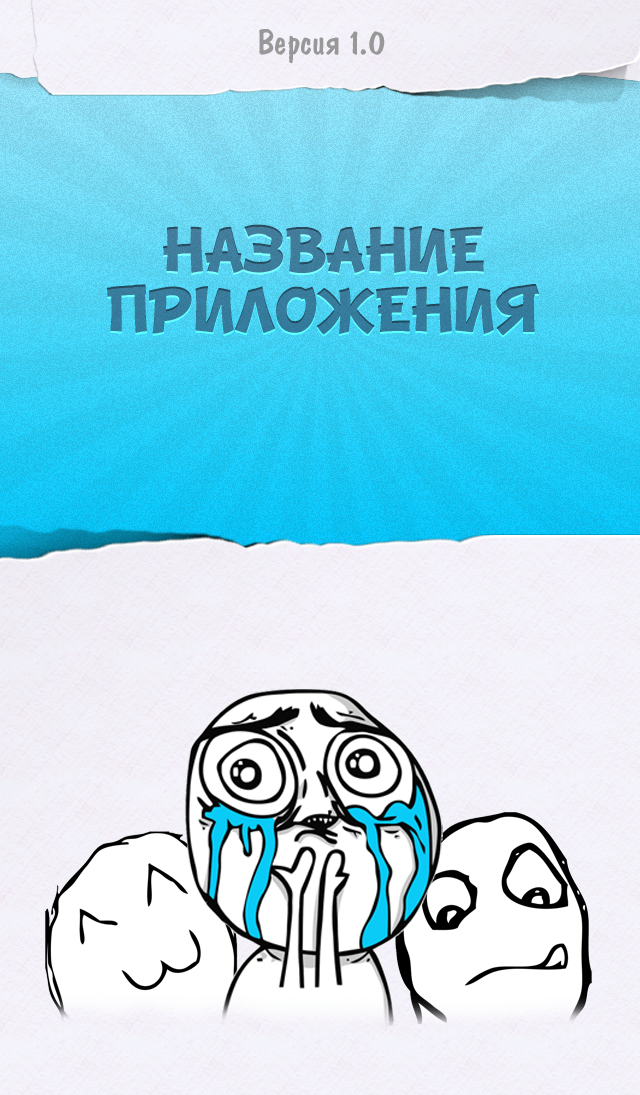
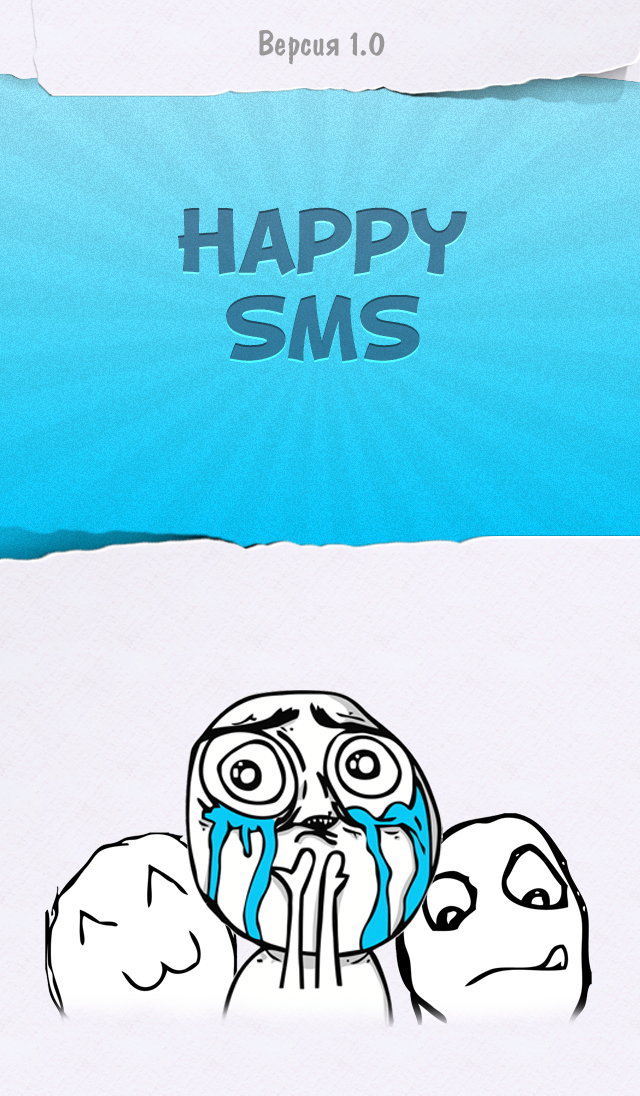
[Splash] some fixes

diff --git a/ios-mems/ios-mems/Controllers/Catalog/CatalogViewController.m b/ios-mems/ios-mems/Controllers/Catalog/CatalogViewController.m
@@ -50,7 +50,7 @@
 -(void)initTitle{
     UIFont *font = [UIFont fontWithName:@"v_BD_Cartoon_Shout Cyr" size:18];
     UILabel *label = [[UILabel alloc] init];
-    [label setText:@"Приложение"];
+    [label setText:@"Happy sms"];
     [label setFont:font];
     [label setNumberOfLines:1];
     [label setBackgroundColor:[UIColor clearColor]];
